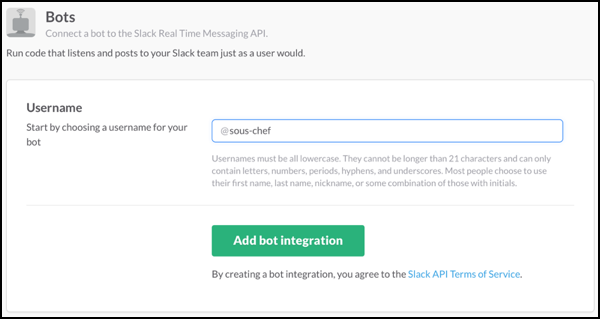
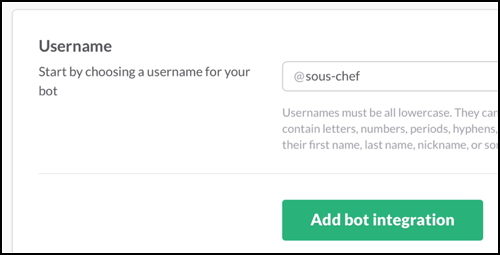
Screenshots

Changed region(s): [[0.0, 0.0, 1.0, 1.0], [0.06, 0.2471, 0.51, 0.302]]

diff --git a/README.md b/README.md
@@ -95,12 +95,12 @@ You can also change the Slack team from the pulldown in the top right.
 
 1. You'll start by choosing a username for your bot. In the field provided enter **sous-chef**.
 
-    ![Slack](screenshots/slack1.png?raw=true)
+    ![Slack](screenshots/slack1.png?rev=2&raw=true)
 
 2. Click the **Add bot integration** button.
 3. On the following screen you will find the API Token. Copy this value to your clipboard.
 
-    ![Slack](screenshots/slack2.png?raw=true)
+    ![Slack](screenshots/slack2.png?rev=2&raw=true)
     
 4. Open the .env file in a text editor.
 5. Paste the copied token from your clipboard as the SLACK_BOT_TOKEN value:
@@ -137,19 +137,19 @@ In this next step we'll set up your Spoonacular account. Spoonacular is a Food a
 The application uses Spoonacular to find recipes based on ingredient or cuisines requested by the user.
   
 1. In your web browser go to [https://spoonacular.com/food-api](https://spoonacular.com/food-api).
-2. Find and click the **Get Access** button.
+2. Click the **Get Access** button.
+
+    ![Spoonacular](screenshots/spoonacular1.png?rev=1&raw=true)
+
 3. Click the appropriate button to gain access (i.e. **Get Regular Access**)
+
+    ![Spoonacular](screenshots/spoonacular2.png?rev=2&raw=true)
+
 4. Choose the appropriate Pricing plan (i.e. **Basic**) and click the **Subscribe** button.
 5. Follow the instructions to sign into or sign up for a Mashape account.
-6. After you have subscribed to Spoonacular in the Documentation tab find a curl example on the right. It may look something like this:
+6. After you have subscribed to Spoonacular in the Documentation tab find a curl example on the right. It should look similar to this:
 
-    ```
-    curl -X POST --include 'https://spoonacular-recipe-food-nutrition-v1.p.mashape.com/food/products/classify' \
-      -H 'X-Mashape-Key: Znxxxxxxxxxxxxxxxxxxxxxxxxxxxxxxxxxxxxxxxxxxxxxxxx' \
-      -H 'Content-Type: application/json' \
-      -H 'Accept: application/json' \
-      --data-binary '{"title":"Kroger Vitamin A & D Reduced Fat 2% Milk","upc":"","plu_code":""}'
-    ```
+    ![Spoonacular](screenshots/spoonacular3.png?rev=1&raw=true)
 
 7. Copy the value of the X-Mashape-Key and paste it into your .env file:
 
@@ -168,11 +168,23 @@ Login to your Bluemix account.
 First, we'll walk you through provisioning a Watson Conversation service in your Bluemix account:
 
 1. From your Bluemix Applications or Services Dashboard click the **Create Service** button.
+
+    ![Bluemix](screenshots/bluemix1.png?rev=3&raw=true)
+
 2. In the IBM Bluemix Catalog search for **Watson Conversation**.
 3. Select the **Conversation** service.
+
+    ![Watson Conversation](screenshots/conversation1.png?rev=1&raw=true)
+    
 4. Click the **Create** button on the Conversation detail page.
 5. On your newly created Conversation service page click the **Service Credentials** tab.
+
+    ![Watson Conversation](screenshots/conversation2.png?rev=1&raw=true)
+
 6. Find your newly created Credentials and click **View Credentials**
+
+    ![Watson Conversation](screenshots/conversation3.png?rev=1&raw=true)
+
 7. Copy the username and password into your .env file:
 
     ```
@@ -184,12 +196,24 @@ Next, let's launch the Watson Conversation tool and import our conversation work
 
 1. Go back to the **Manage** tab.
 2. Click the **Launch tool** button.
+
+    ![Watson Conversation](screenshots/conversation4.png?rev=1&raw=true)
+
 3. Log in to Watson Conversation with your Bluemix credentials if prompted to do so.
 4. On the **Create workspace** page click the **Import** button.
+
+    ![Watson Conversation](screenshots/conversation5.png?rev=1&raw=true)
+    
 5. Choose the workspace.json file in the application directory (watson-recipe-bot-python-cloudant).
 6. Click the **Import** button.
+
+    ![Watson Conversation](screenshots/conversation6.png?rev=1&raw=true)
+
 7. Under Workspaces you should now see the Recipe Bot.
 8. Click the menu button (3 vertical dots) and click **View Details**
+
+    ![Watson Conversation](screenshots/conversation7.png?rev=1&raw=true)
+    
 9. Copy the Workspace ID and paste it into your .env file:
 
     ```
@@ -203,6 +227,9 @@ We're almost there! Next, we'll provision an instance of Cloudant in our Bluemix
 1. From your Bluemix Applications or Services Dashboard click the **Create Service** button.
 2. In the IBM Bluemix Catalog search for **Cloudant**.
 3. Select the **Cloudant NoSQL DB** service.
+
+    ![Watson Conversation](screenshots/cloudant1.png?rev=1&raw=true)
+    
 4. Click the **Create** button on the Cloudant detail page.
 5. On your newly created Cloudant service page click the **Service Credentials** tab.
 6. Find your newly created Credentials and click **View Credentials**
